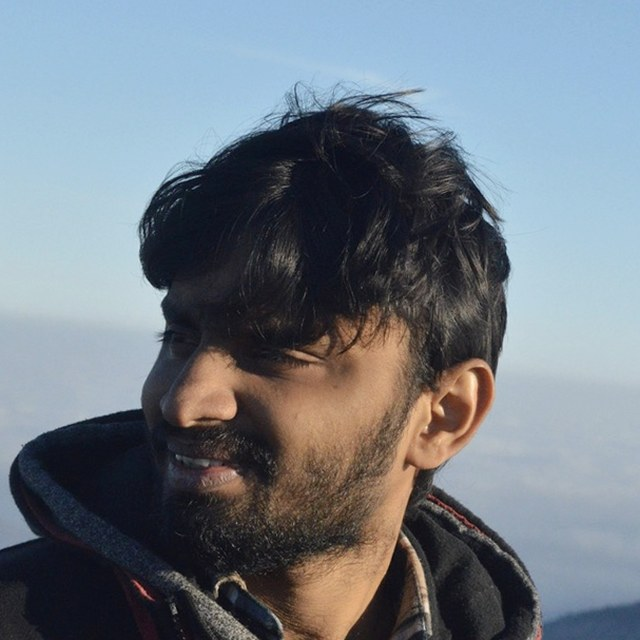
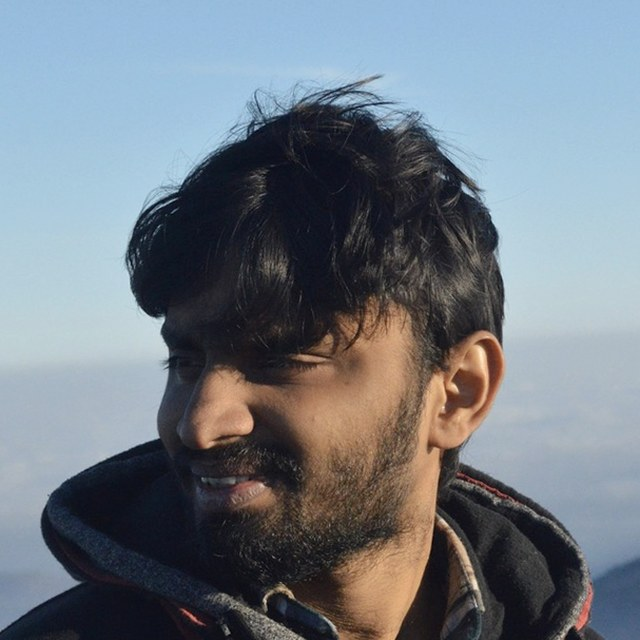
Tilt the flipped dark-mode photo the other way (+5 degrees)
Pratheek preferred the counter-clockwise tilt. Image bumped to v=5.

Claude-Session: https://claude.ai/code/session_01DUHUvsk4d72F8rTo4YmRrU

diff --git a/index.html b/index.html
@@ -40,7 +40,7 @@
       <div class="profile">
         <div class="profile-photo">
           <img src="profile.jpg?v=5" alt="Pratheek B" class="photo-day" width="160" height="160" />
-          <img src="profile-dark.jpg?v=4" alt="" class="photo-dark" width="160" height="160" />
+          <img src="profile-dark.jpg?v=5" alt="" class="photo-dark" width="160" height="160" />
         </div>
         <div class="nameblock">
           <h1>Pratheek B</h1>
